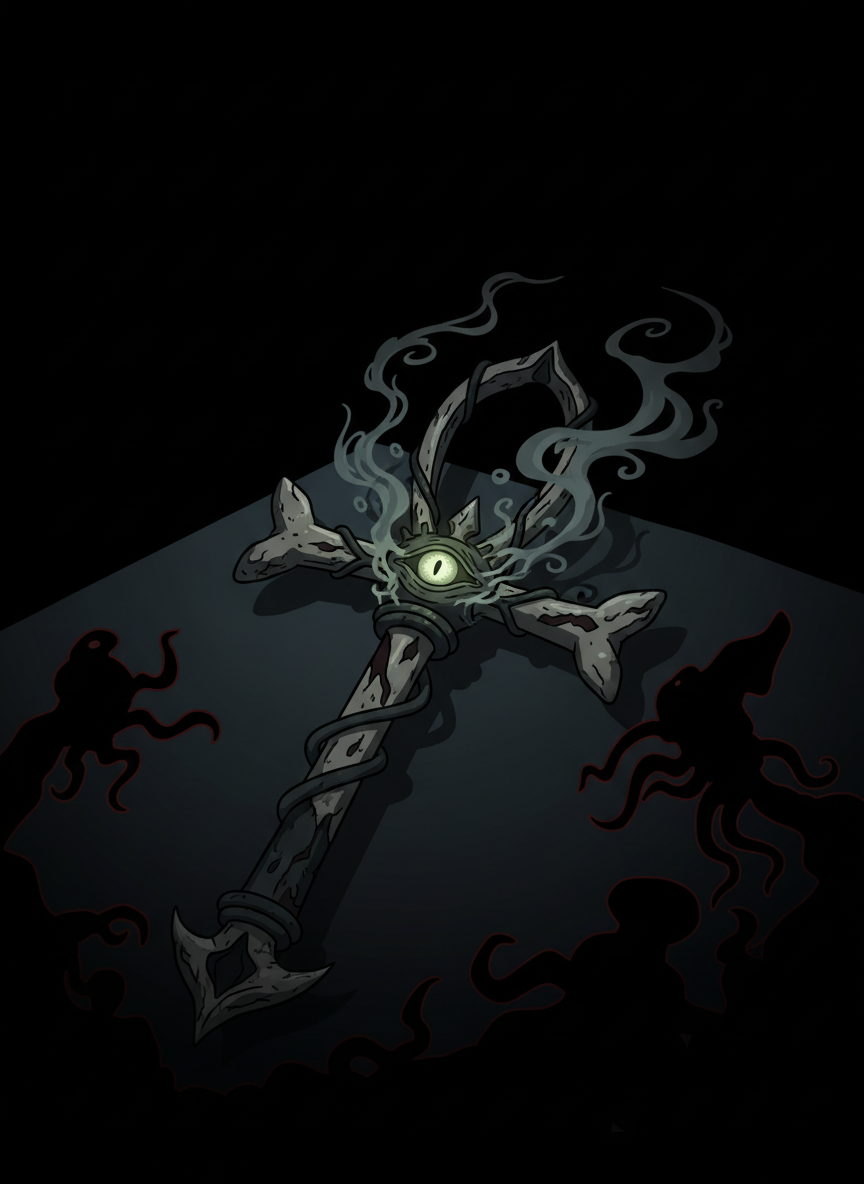
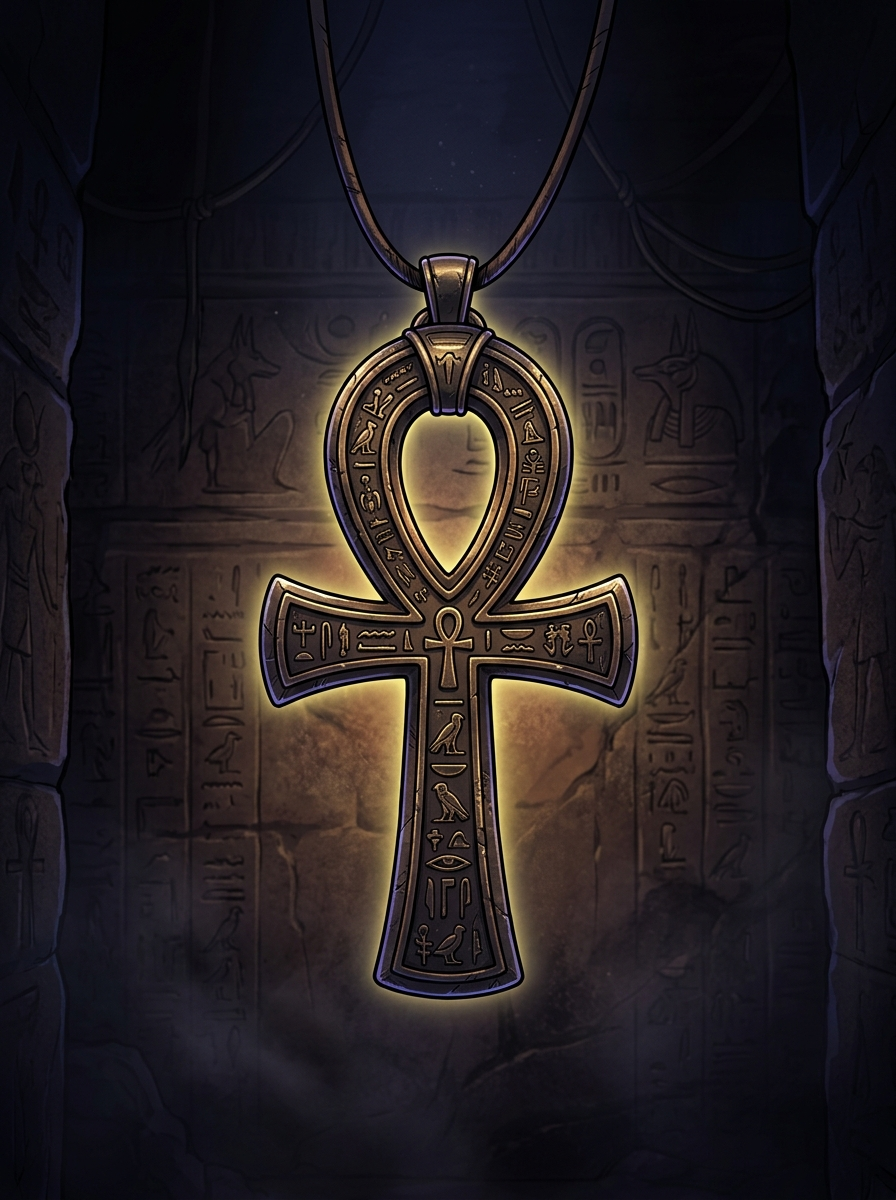
Refactor code structure for improved readability and maintainability

diff --git a/src/core/effects/actions/movement.js b/src/core/effects/actions/movement.js
@@ -32,9 +32,9 @@ function shouldAllowExtraDeckMonsterToHand(action, ctx) {
  * @param {Object} action - Action configuration
  * @param {Object} ctx - Context object
  * @param {Object} targets - Resolved targets
- * @returns {boolean} Whether any cards were moved
+ * @returns {Promise<boolean>} Whether any cards were moved
  */
-export function applyMove(action, ctx, targets) {
+export async function applyMove(action, ctx, targets) {
   // Resolve targetRef to get the actual cards
   let targetCards = targets[action.targetRef] || [];
 
@@ -52,9 +52,8 @@ export function applyMove(action, ctx, targets) {
   }
 
   let moved = false;
-  let waitingForChoice = false;
 
-  targetCards.forEach((card) => {
+  for (const card of targetCards) {
     if (
       toZone === "field" &&
       card.summonRestrict === "shadow_heart_invocation_only"
@@ -62,7 +61,7 @@ export function applyMove(action, ctx, targets) {
       console.log(
         `${card.name} can only be Special Summoned by "Shadow-Heart Invocation".`
       );
-      return false;
+      continue;
     }
     if (this.game?.normalizeCardOwnership) {
       this.game.normalizeCardOwnership(card, ctx, {
@@ -90,7 +89,7 @@ export function applyMove(action, ctx, targets) {
     const defaultFieldPosition =
       toZone === "field" && card.cardKind === "monster" ? "attack" : null;
 
-    const applyMoveWithPosition = (chosenPosition) => {
+    const applyMoveWithPosition = async (chosenPosition) => {
       const finalPosition = shouldPromptForPosition
         ? chosenPosition || action.position || defaultFieldPosition || "attack"
         : chosenPosition ?? action.position ?? defaultFieldPosition;
@@ -103,7 +102,7 @@ export function applyMove(action, ctx, targets) {
         action.contextLabel || (isCostMove ? "cost" : "applyMove");
 
       if (this.game && typeof this.game.moveCard === "function") {
-        this.game.moveCard(card, destPlayer, toZone, {
+        const moveResult = await this.game.moveCard(card, destPlayer, toZone, {
           position: finalPosition,
           isFacedown: action.isFacedown,
           resetAttackFlags: action.resetAttackFlags,
@@ -117,6 +116,9 @@ export function applyMove(action, ctx, targets) {
             ctx
           ),
         });
+        if (moveResult?.success === false) {
+          return;
+        }
       } else {
         const fromOwner =
           card.owner === "player" ? this.game.player : this.game.bot;
@@ -171,14 +173,13 @@ export function applyMove(action, ctx, targets) {
         card
       );
       if (positionChoice && typeof positionChoice.then === "function") {
-        waitingForChoice = true;
-        positionChoice.then((resolved) => applyMoveWithPosition(resolved));
+        await applyMoveWithPosition(await positionChoice);
       } else {
-        applyMoveWithPosition(positionChoice);
+        await applyMoveWithPosition(positionChoice);
       }
     } else {
-      applyMoveWithPosition(action.position);
+      await applyMoveWithPosition(action.position);
     }
-  });
-  return moved || waitingForChoice;
+  }
+  return moved;
 }

diff --git a/src/data/cards/generic.js b/src/data/cards/generic.js
@@ -85,10 +85,24 @@ export const genericCards = [
     type: "Beast",
     attribute: "Dark",
     altTribute: { requiresName: "Nightmare Steed", tributes: 1 },
-    onBattleDestroy: { damage: 300 },
     description:
       'Can be Tribute Summoned with 1 tribute if it is "Nightmare Steed". If it destroys a monster by battle, inflict 300 damage.',
     image: "assets/Midnight Nightmare Steed.png",
+    effects: [
+      {
+        id: "midnight_nightmare_steed_battle_damage",
+        timing: "on_event",
+        event: "battle_destroy",
+        requireSelfAsBattleDestroyer: true,
+        actions: [
+          {
+            type: "damage",
+            player: "opponent",
+            amount: 300,
+          },
+        ],
+      },
+    ],
   },
   {
     id: 6,
@@ -113,7 +127,7 @@ export const genericCards = [
     subtype: "normal",
     description:
       "Send 1 monster you control to the GY, then Special Summon 1 monster from your GY with the same Level.",
-    image: "assets/Transmutate.jpg",
+    image: "assets/Transmutate.png",
     effects: [
       {
         id: "transmutate_effect",
@@ -229,7 +243,7 @@ export const genericCards = [
         id: "light_dividing_sword_lifegain",
         timing: "on_event",
         event: "battle_destroy",
-        requireEquippedAsAttacker: true,
+        requireEquippedAsBattleDestroyer: true,
         actions: [
           {
             type: "heal",
@@ -573,6 +587,7 @@ export const genericCards = [
           {
             type: "call_of_haunted_summon_and_bind",
             targetRef: "haunted_target",
+            position: "attack",
           },
         ],
         ui: {

diff --git a/src/core/effects/triggers/collectors/battleDestroy.js b/src/core/effects/triggers/collectors/battleDestroy.js
@@ -217,6 +217,23 @@ export async function collectBattleDestroyTriggers(payload) {
           if (!card.equippedTo) continue;
           if (ctx.attacker !== card.equippedTo) continue;
         }
+        if (effect.requireSelfAsBattleDestroyer) {
+          const battleDestroyers = Array.isArray(ctx.battleDestroyers)
+            ? ctx.battleDestroyers
+            : ctx.attacker
+              ? [ctx.attacker]
+              : [];
+          if (!battleDestroyers.includes(card)) continue;
+        }
+        if (effect.requireEquippedAsBattleDestroyer) {
+          if (!card.equippedTo) continue;
+          const battleDestroyers = Array.isArray(ctx.battleDestroyers)
+            ? ctx.battleDestroyers
+            : ctx.attacker
+              ? [ctx.attacker]
+              : [];
+          if (!battleDestroyers.includes(card.equippedTo)) continue;
+        }
 
         const activationContext = this.buildTriggerActivationContext(
           card,

diff --git a/src/core/actionHandlers/actionCatalog.js b/src/core/actionHandlers/actionCatalog.js
@@ -574,12 +574,16 @@ export const ACTION_CATALOG = {
     summary: "Special Summons a target and binds it to Call of the Haunted.",
     handler: "proxy:applyCallOfTheHauntedSummon",
     required: ["targetRef"],
-    fields: COMMON_TARGET_FIELDS,
+    optional: ["position"],
+    fields: {
+      ...COMMON_TARGET_FIELDS,
+      position: { type: "string" },
+    },
     targetRef: "required",
     selection: "usesTargets",
     mutates: ["field", "graveyard"],
     emits: ["after_summon"],
-    examples: [{ type: "call_of_haunted_summon_and_bind", targetRef: "haunted_target" }],
+    examples: [{ type: "call_of_haunted_summon_and_bind", targetRef: "haunted_target", position: "attack" }],
   }),
   choose_action_case: action({
     category: "conditional",

diff --git a/src/core/game/combat/resolution.js b/src/core/game/combat/resolution.js
@@ -867,11 +867,18 @@ export async function applyBattleDestroyEffect(
   const attackerOwner = attacker.owner === "player" ? this.player : this.bot;
   const destroyedPosition =
     extras?.destroyedPosition || destroyed.position || null;
+  const battleDestroyers = Array.isArray(extras?.battleDestroyers)
+    ? extras.battleDestroyers.filter(Boolean)
+    : attacker
+      ? [attacker]
+      : [];
 
   const emitResult = await this.emit("battle_destroy", {
     player: attackerOwner, // o dono do atacante (quem causou a destruição)
     opponent: destroyedOwner, // o jogador que perdeu o monstro
     attacker,
+    battleDestroyer: battleDestroyers[0] || attacker || null,
+    battleDestroyers,
     destroyed,
     destroyedOwner: destroyedOwner || extras?.destroyedOwner || null,
     destroyedOwnerId: